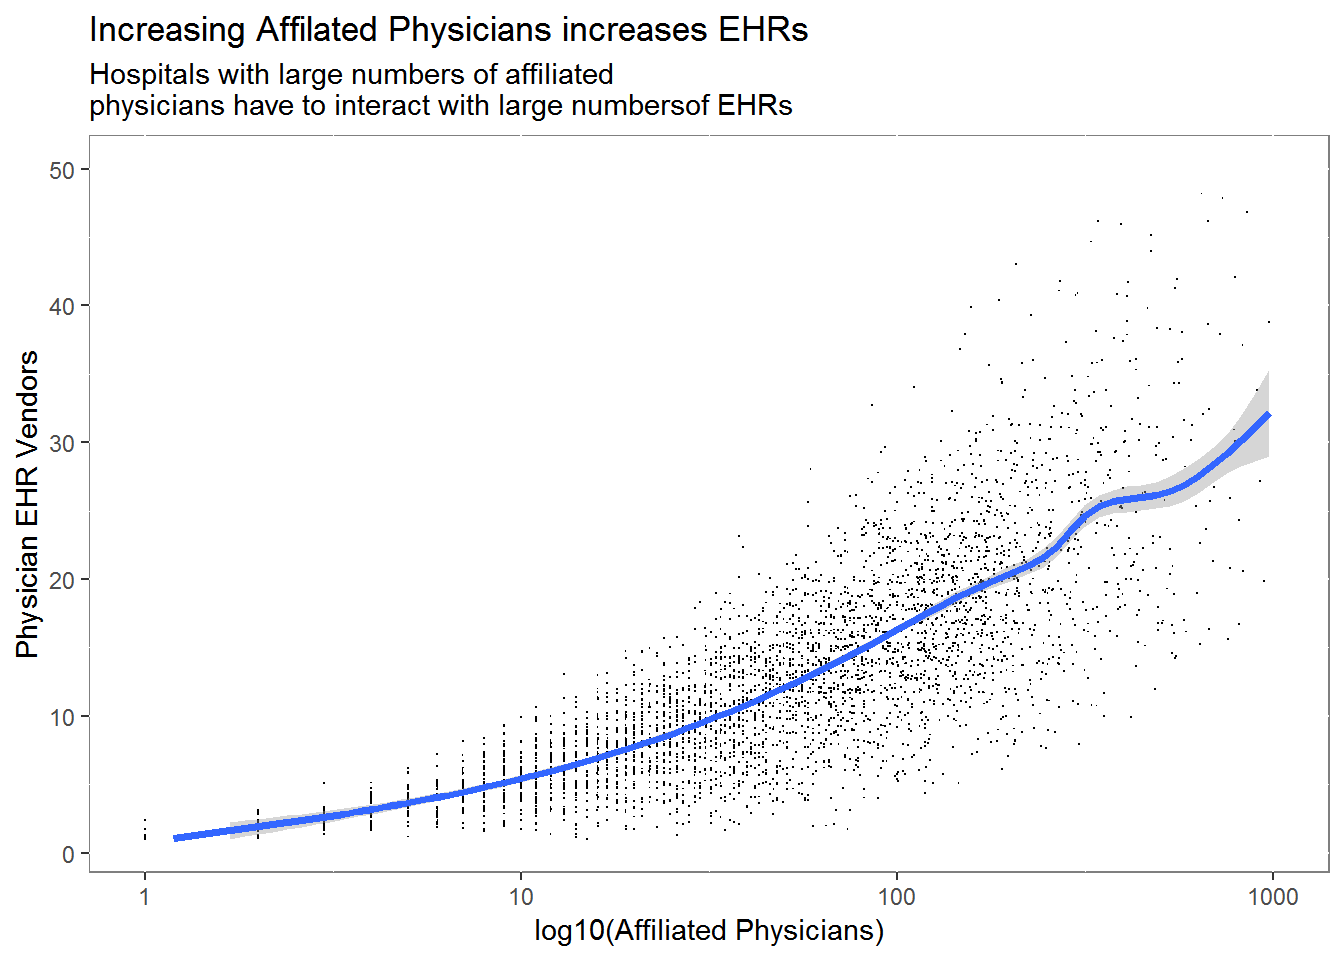
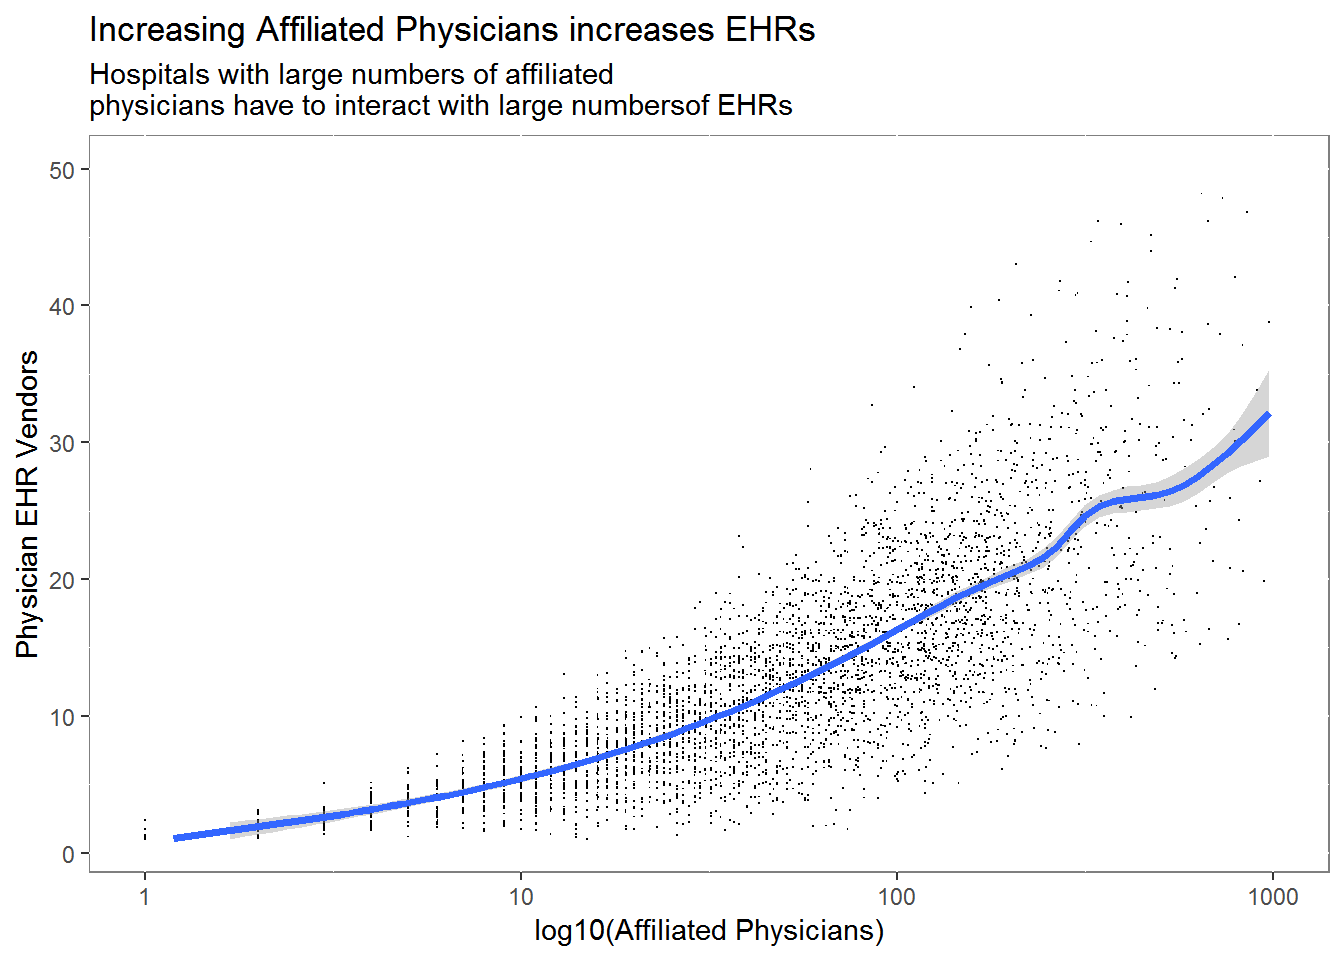
typo in plot title

Changed region(s): [[0.2188, 0.0, 0.625, 0.0625]]

diff --git a/data.html b/data.html
@@ -488,7 +488,7 @@ aff.mu.npi &lt;-<span class="st"> </span>aff.mu.vnd <span class="op">%&gt;%</spa
               <span class="dt">span =</span> <span class="dv">1</span>)<span class="op">+</span>
 <span class="st">  </span><span class="kw">scale_y_continuous</span>(<span class="dt">limits =</span> <span class="kw">c</span>(<span class="dv">1</span>, <span class="dv">50</span>))<span class="op">+</span>
 <span class="st">  </span><span class="kw">scale_x_log10</span>(<span class="dt">limits =</span> <span class="kw">c</span>(<span class="dv">1</span>, <span class="dv">1000</span>))<span class="op">+</span>
-<span class="st">  </span><span class="kw">labs</span>(<span class="dt">title =</span> <span class="st">&quot;Increasing Affilated Physicians increases EHRs&quot;</span>,
+<span class="st">  </span><span class="kw">labs</span>(<span class="dt">title =</span> <span class="st">&quot;Increasing Affiliated Physicians increases EHRs&quot;</span>,
        <span class="dt">subtitle =</span> 
          <span class="kw">paste0</span>(<span class="st">&quot;Hospitals with large numbers of affiliated&quot;</span>,
                 <span class="st">&quot;</span><span class="ch">\n</span><span class="st">physicians have to interact with large numbers&quot;</span>,
